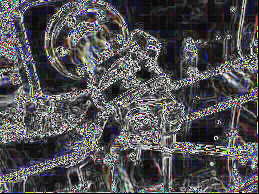
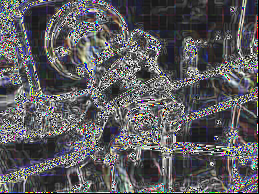
arrumando media

diff --git a/Q3/main.py b/Q3/main.py
@@ -3,65 +3,20 @@ from PIL import Image
 import os.path
 
 script_dir = os.path.dirname(os.path.abspath(__file__))
-im = Image.open(os.path.join(script_dir, '../imagens/woman.png')).convert('RGB')
+im = Image.open(os.path.join(script_dir, '../imagens/maquina.png')).convert('RGB')
 
 a = np.array(im)
-
-def correlacao(img):
-    h, w, c = img.shape
-    R = G = B = 0
-    i = j = 0
-    k = l = 0
-    x = y = 0
-    m = 3
-    n = 1
-
-    mascara = np.array([[1, 1, 1]])
-
-    resultado_final = np.zeros(img.shape, dtype='uint8')
-
-    for i in range(i, h-1, 1):
-        for j in range(j, w-1, 1):
-           
-            for k in range(k, n, 1):
-                for l in range(l, m, 1):
-                    if (k+i < 0 or k+i > h-1) or (l+j < 0 or l+j > w-1):
-                        pass
-                    else:
-                        R = np.add(R, np.multiply(img[i+k, j+l, 0],mascara[k, l]))
-                        G = np.add(G, np.multiply(img[i+k, j+l, 1],mascara[k, l]))
-                        B = np.add(B, np.multiply(img[i+k, j+l, 2],mascara[k, l]))
-                        #print(img[i+k+1, j+l+1], vertical[k, l], dfi)
-                l = 0 
-            k = 0
-            #soma = np.absolute(dfi) + np.absolute(dfj)
-            #print(soma)
-            resultado_final[i, j] = [R, G, B]
-            R = 0
-            G = 0
-            B = 0
-            #soma = 0
-        j = 0    
-
-    img_resultante = Image.fromarray(resultado_final.astype(np.uint8))
-
-    img_resultante.save("cor.png")
-
-    return
-    
-    #resultado_histograma = histograma(resultado_final, img.shape)
-
-    #return img_resultante_sobel
 
 def media(img):
     h, w, c = img.shape 
     offset = 25
-    row = 51
-    col = 77
+    pivo = [0, 0]
+    row = 10
+    col = 13
     m = col//2
     n = row//2
-    i = 0
-    j = 0
+    i = pivo[0]
+    j = pivo[1]
     k = -m
     l = -n
 
@@ -91,17 +46,20 @@ def media(img):
 
             #print(i, j)
             img_media[i, j] = [r + offset, g + offset, b + offset]
-        j = 0
+        j = pivo[1]
+
     return img_media
 
 def sobel(img):
     h, w, c = img.shape
     dfiR = dfiG = dfiB = dfjR = dfjG = dfjB = 0
-    i = j = 0
+    offset = 25
+    pivo = [0, 0]
+    i = pivo[0]
+    j = pivo[1]
     k = l = 0
     x = y = 0
     m = 3
-    offset = 10
 
     vertical = np.array([[-1, -2, -1],
                     [0, 0, 0],
@@ -127,13 +85,11 @@ def sobel(img):
                         dfjR = np.add(dfjR, np.multiply(img[i+k, j+l, 0],horizontal[k, l]))
                         dfjG = np.add(dfjG, np.multiply(img[i+k, j+l, 1],horizontal[k, l]))
                         dfjB = np.add(dfjB, np.multiply(img[i+k, j+l, 2],horizontal[k, l]))
-                        #print(img[i+k+1, j+l+1], vertical[k, l], dfi)
                 l = 0 
             k = 0
             somaR = np.absolute(dfiR) + np.absolute(dfjR)
             somaG = np.absolute(dfiG) + np.absolute(dfjG)
             somaB = np.absolute(dfiB) + np.absolute(dfjB)
-            #print(soma)
             resultado_final[i, j] = [somaR + offset, somaG + offset, somaB + offset]
             dfiR = 0
             dfiG = 0
@@ -144,7 +100,7 @@ def sobel(img):
             somaR = 0
             somaG = 0
             somaB = 0
-        j = 0    
+        j = pivo[1] 
 
     img_resultante_sobel = Image.fromarray(resultado_final.astype(np.uint8))
 
@@ -173,14 +129,14 @@ def histograma(sob, img_shape):
     return resultado
 
 img_resultante_media = media(a)
-#img_resultante_sobel = sobel(a)
+img_resultante_sobel = sobel(a)
 #correlacao(a)
 
 img_resultante_rgb = Image.fromarray(img_resultante_media.astype(np.uint8))
-#img_resultante_rgb2 = Image.fromarray(img_resultante_sobel.astype(np.uint8))
+img_resultante_rgb2 = Image.fromarray(img_resultante_sobel.astype(np.uint8))
 
 img_resultante_rgb.save("mediaRGB.png")
-#img_resultante_rgb2.save("sobel.png")
+img_resultante_rgb2.save("sobel.png")
 
 
 
